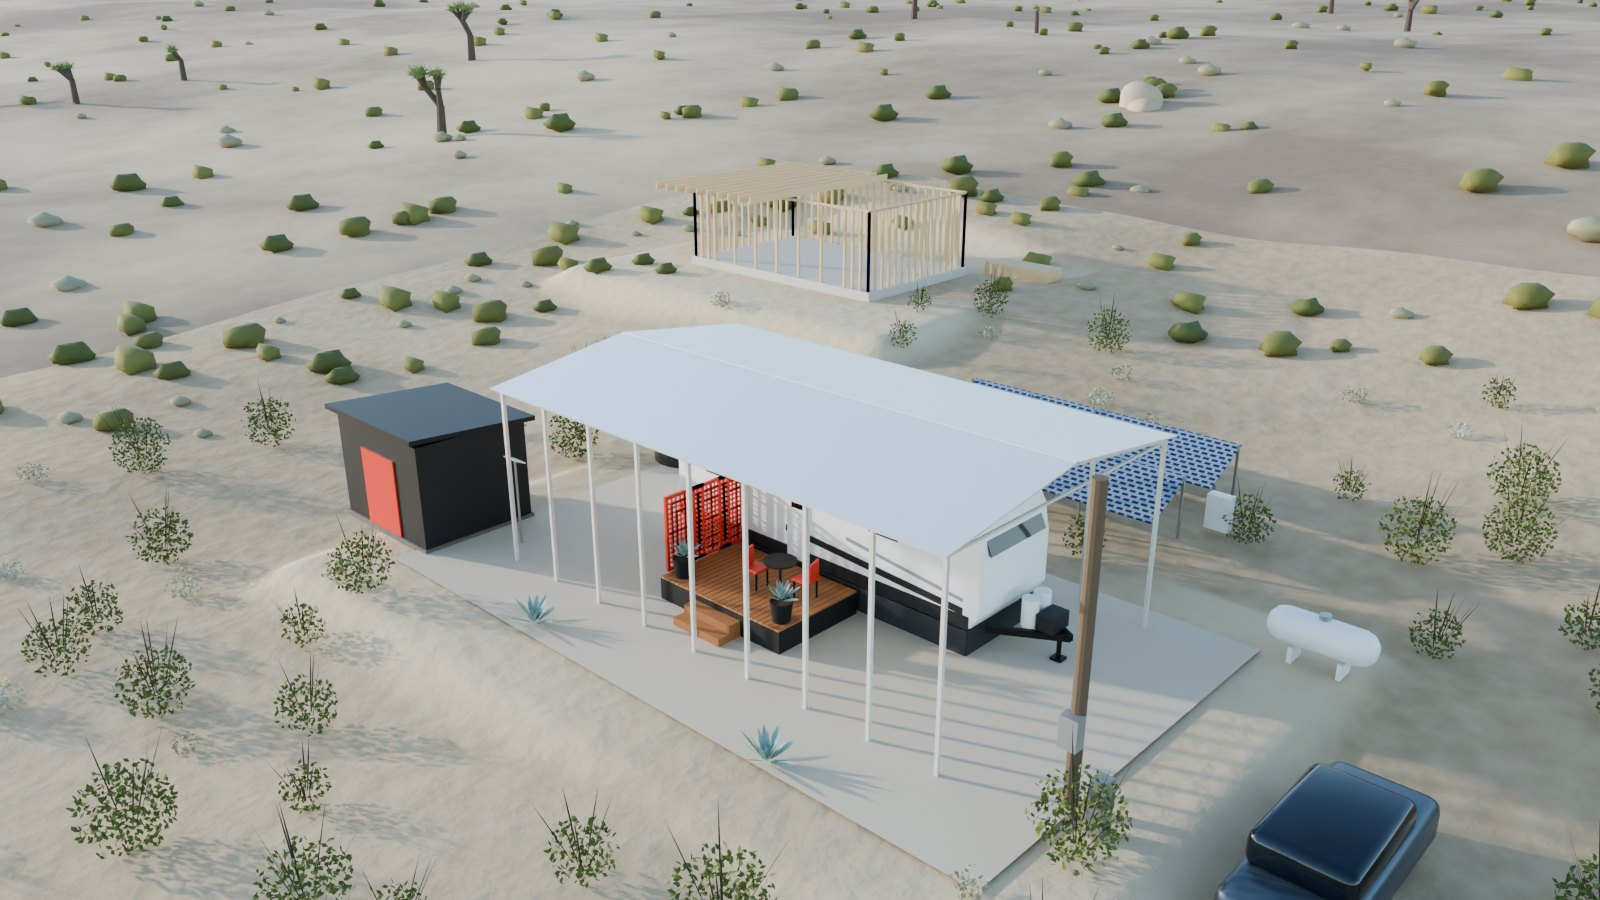
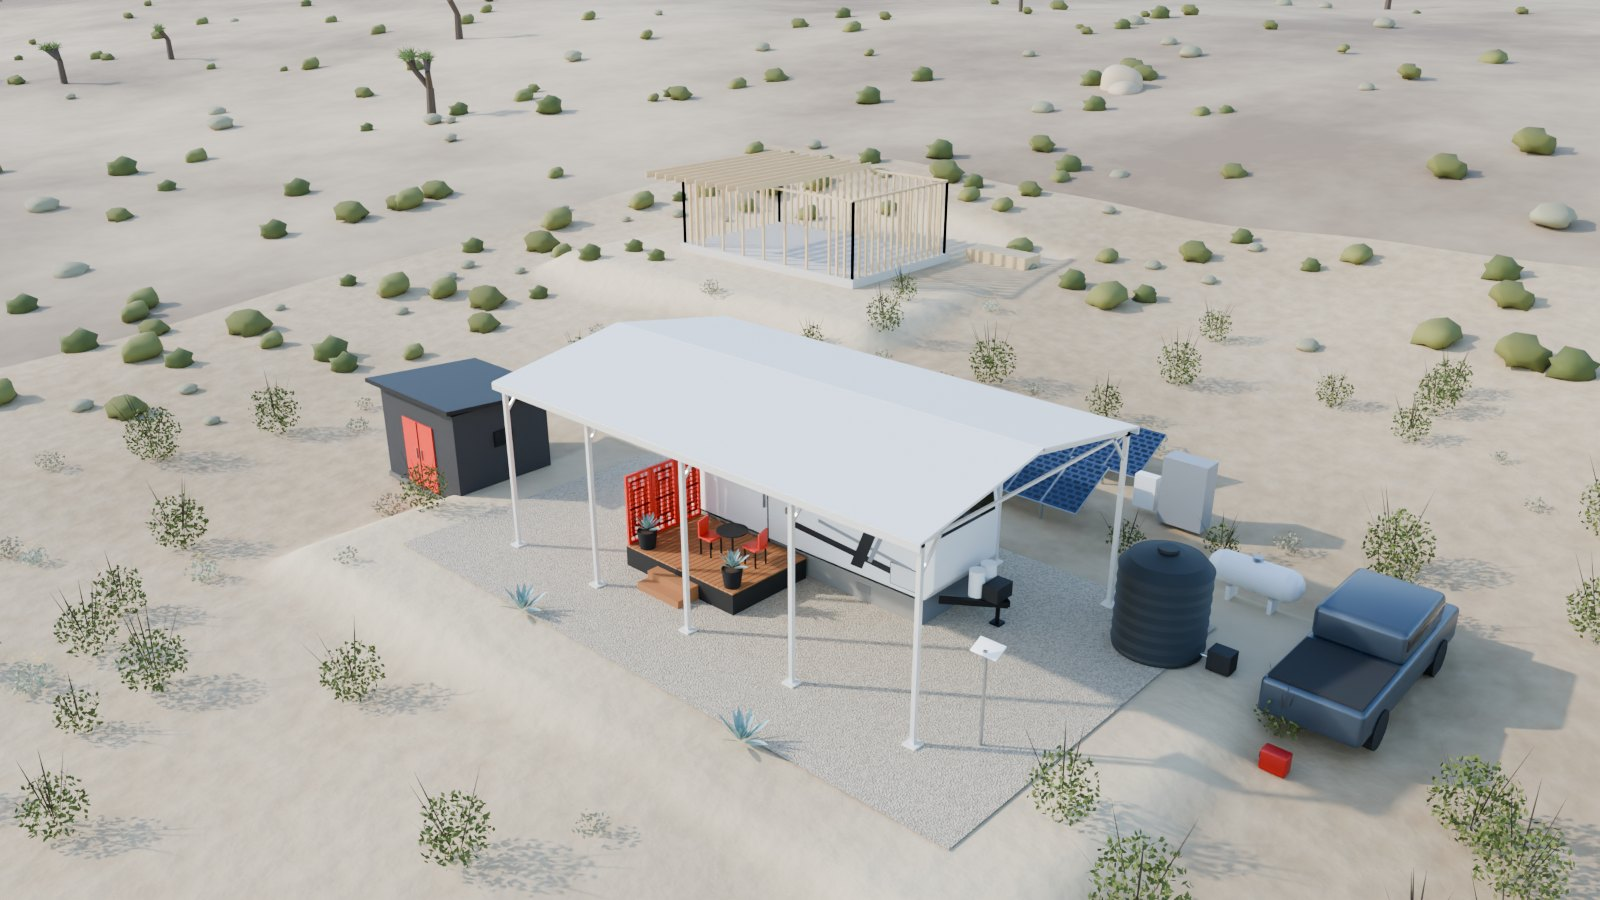
RV: final Tier A/B renders and lineup; reframe Tier C so the Airstream is visible
Claude-Session: https://claude.ai/code/session_01EUgHJx88rtULqyescs541n

diff --git a/rv-trailer/blender/rv_c_premium.py b/rv-trailer/blender/rv_c_premium.py
@@ -24,11 +24,11 @@ for k in range(3):
 s.anchor('Coral lattice screens', -1.78, DY, deck_top, 3, dz=2.1)
 s.lounger(0.25, DY - 0.35, rot=180)
 s.lounger(1.1, DY - 0.35, rot=180, pad='peach')
-t = s.pot(1.4, DY - 1.35, r=0.3, h=0.55, mat='black_fabric', z=deck_top)
-s.olive(1.4, DY - 1.35, h=1.8, z=t)
+t = s.pot(-1.35, DY - 1.4, r=0.3, h=0.55, mat='black_fabric', z=deck_top)
+s.olive(-1.35, DY - 1.4, h=1.8, z=t)
 s.z = z
-t = s.pot(4.0, -2.9, r=0.34, h=0.6, mat='black_fabric')
-s.olive(4.0, -2.9, h=2.1, z=t)
+t = s.pot(-4.2, -2.6, r=0.34, h=0.6, mat='black_fabric')
+s.olive(-4.2, -2.6, h=2.1, z=t)
 s.string_lights((-6.0, -4.1, z + 3.8), (6.0, -4.1, z + 3.8), n=16, sag=0.4, coll='lights')
 s.shower('Outdoor shower', 5.0, -1.4, rot=180, coll='camp', cat=3)
 s.water_tank('1,550-gal water tank + pump', 8.4, 2.6, r=1.0, h=2.0, color='#e6e1d8')
@@ -42,8 +42,8 @@ for (px, py, h) in ((-7.6, -6.4, 6.0), (8.4, 6.6, 5.0)):
 for (px, py) in ((-3.6, -6.6), (3.4, -6.8)):
     s.agave(px, py, s=0.7)
 s.house_frame('Your house going up', *RK.SK.HOUSE)
-CAM, TGT = (7.0, -14.5, z + 1.6), (-0.8, 0.0, z + 1.8)
-DUSK, DT = (5.6, -11.2, z + 1.6), (-0.6, -0.8, z + 1.8)
+CAM, TGT = (9.6, -12.6, z + 1.6), (-0.6, 0.4, z + 1.7)
+DUSK, DT = (7.8, -10.0, z + 1.5), (-0.4, 0.0, z + 1.8)
 s.keep_clear(CAM, TGT, width=5.0)
 s.keep_clear(DUSK, DT, width=4.0)
 s.ground()
